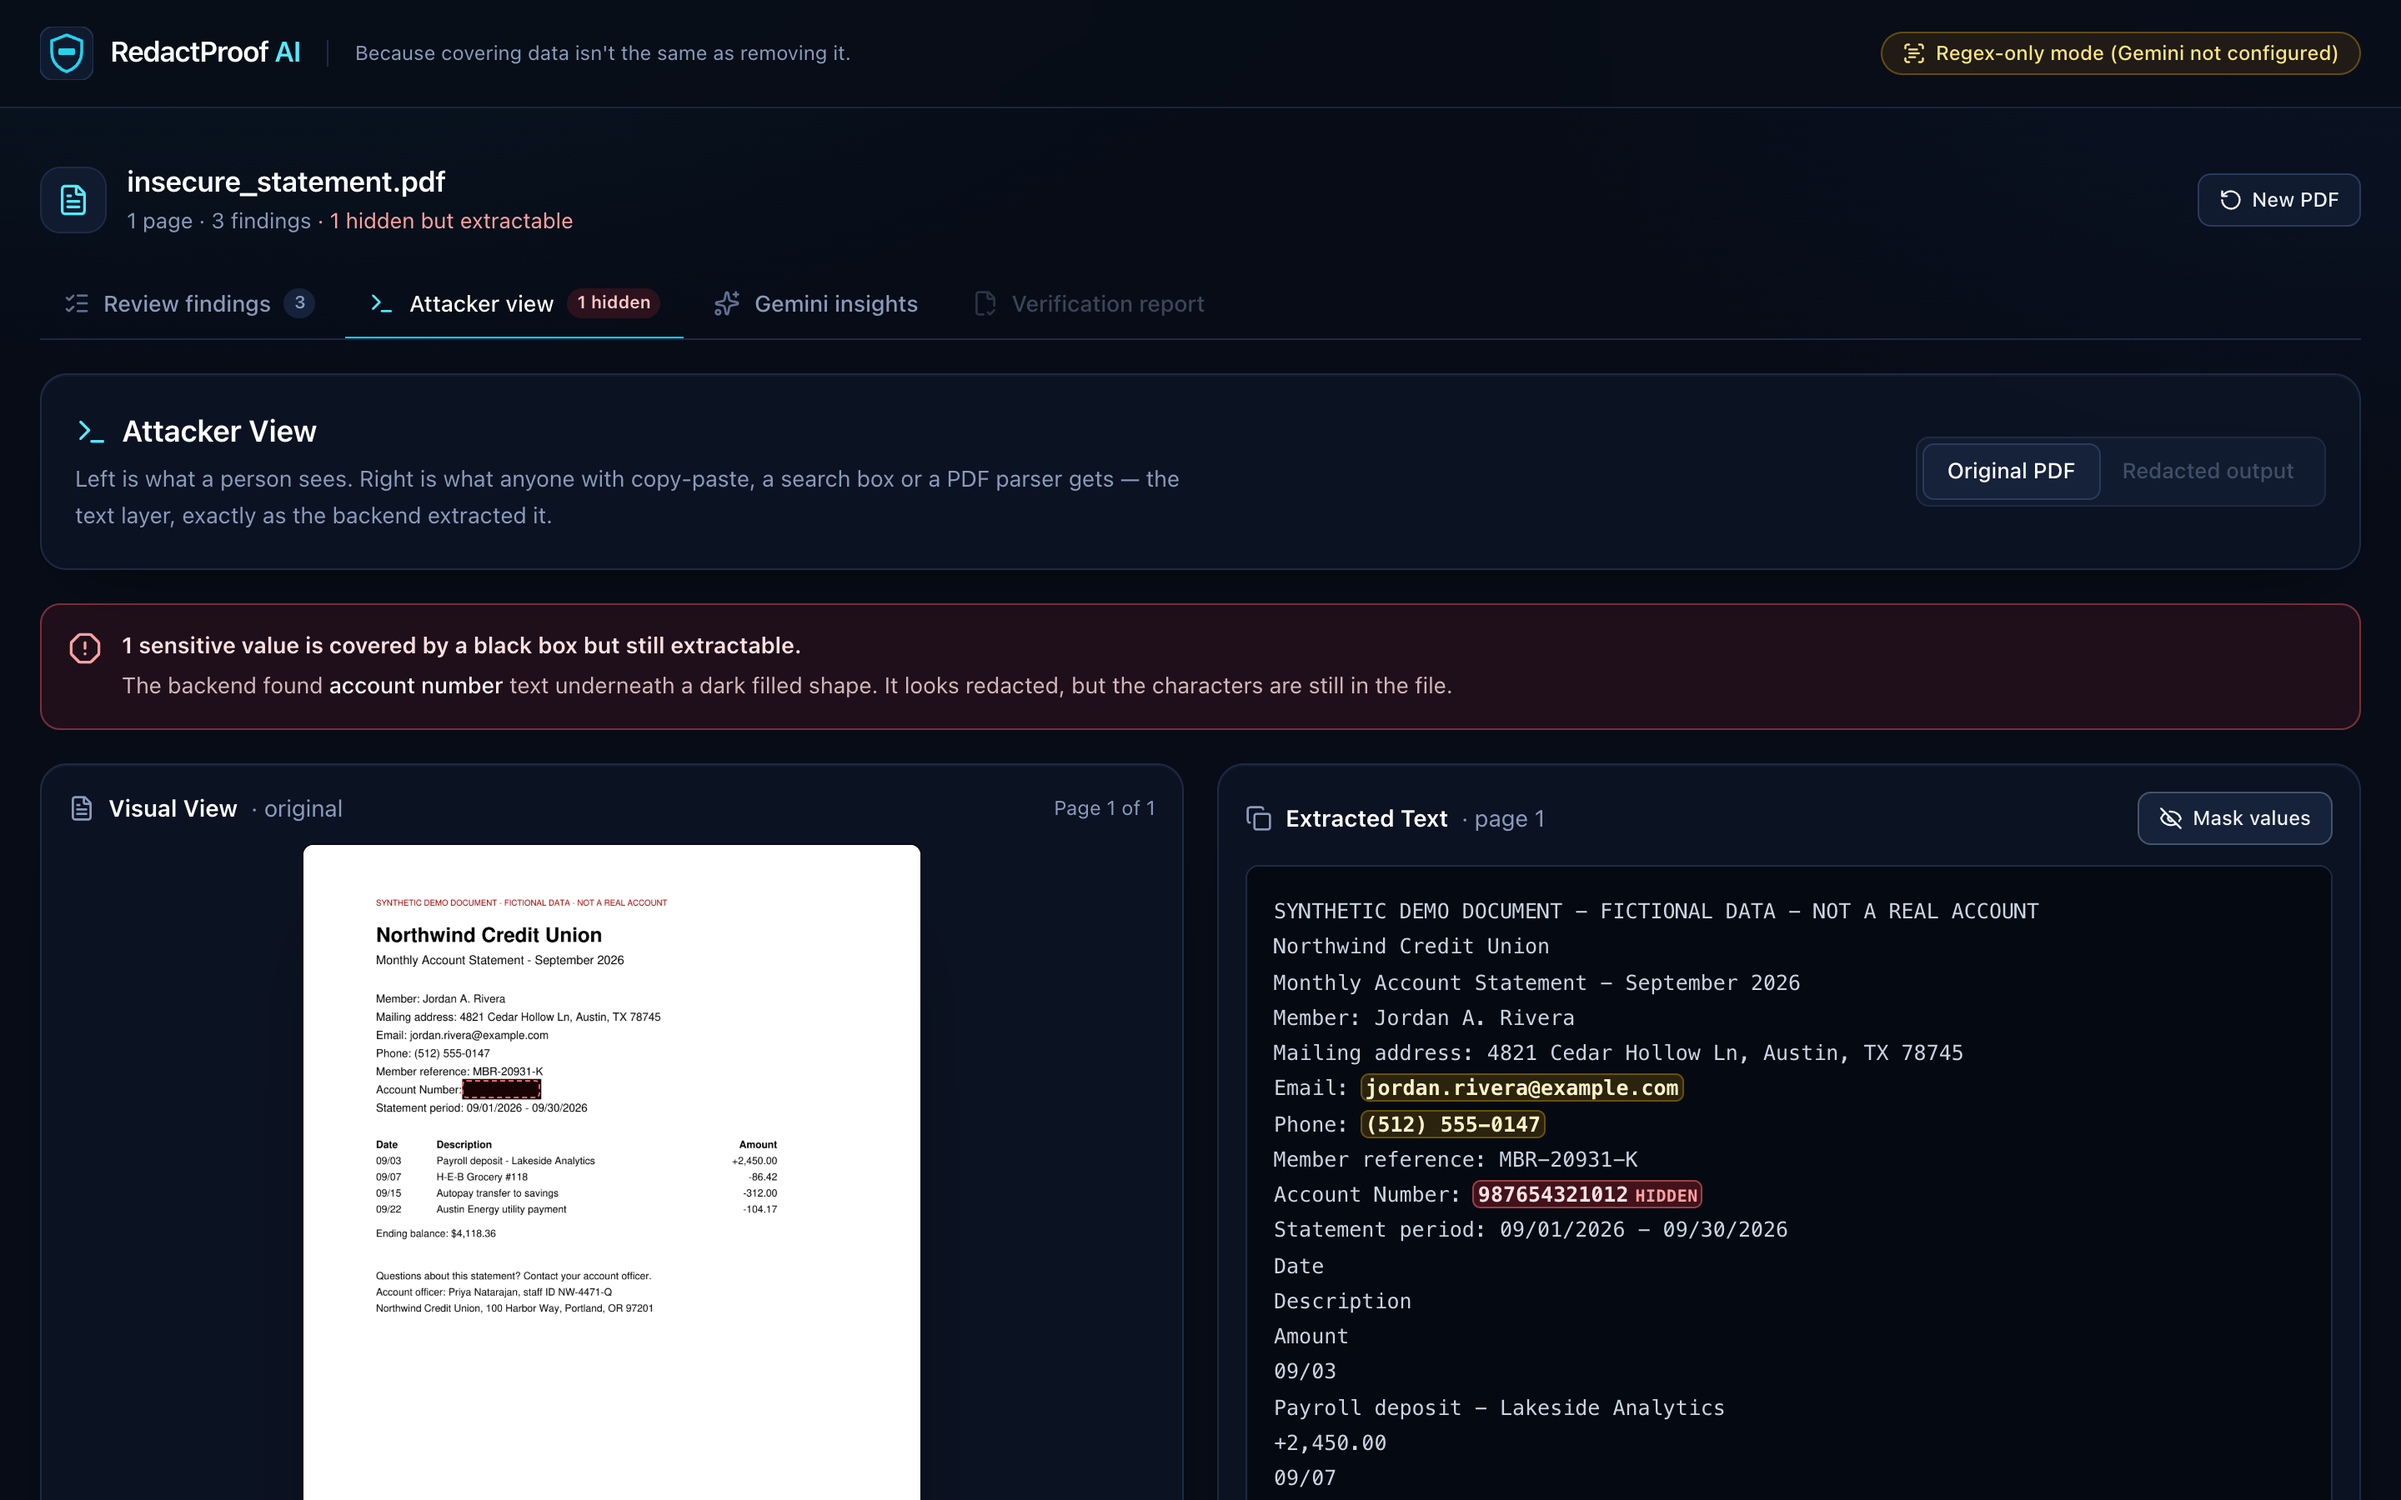
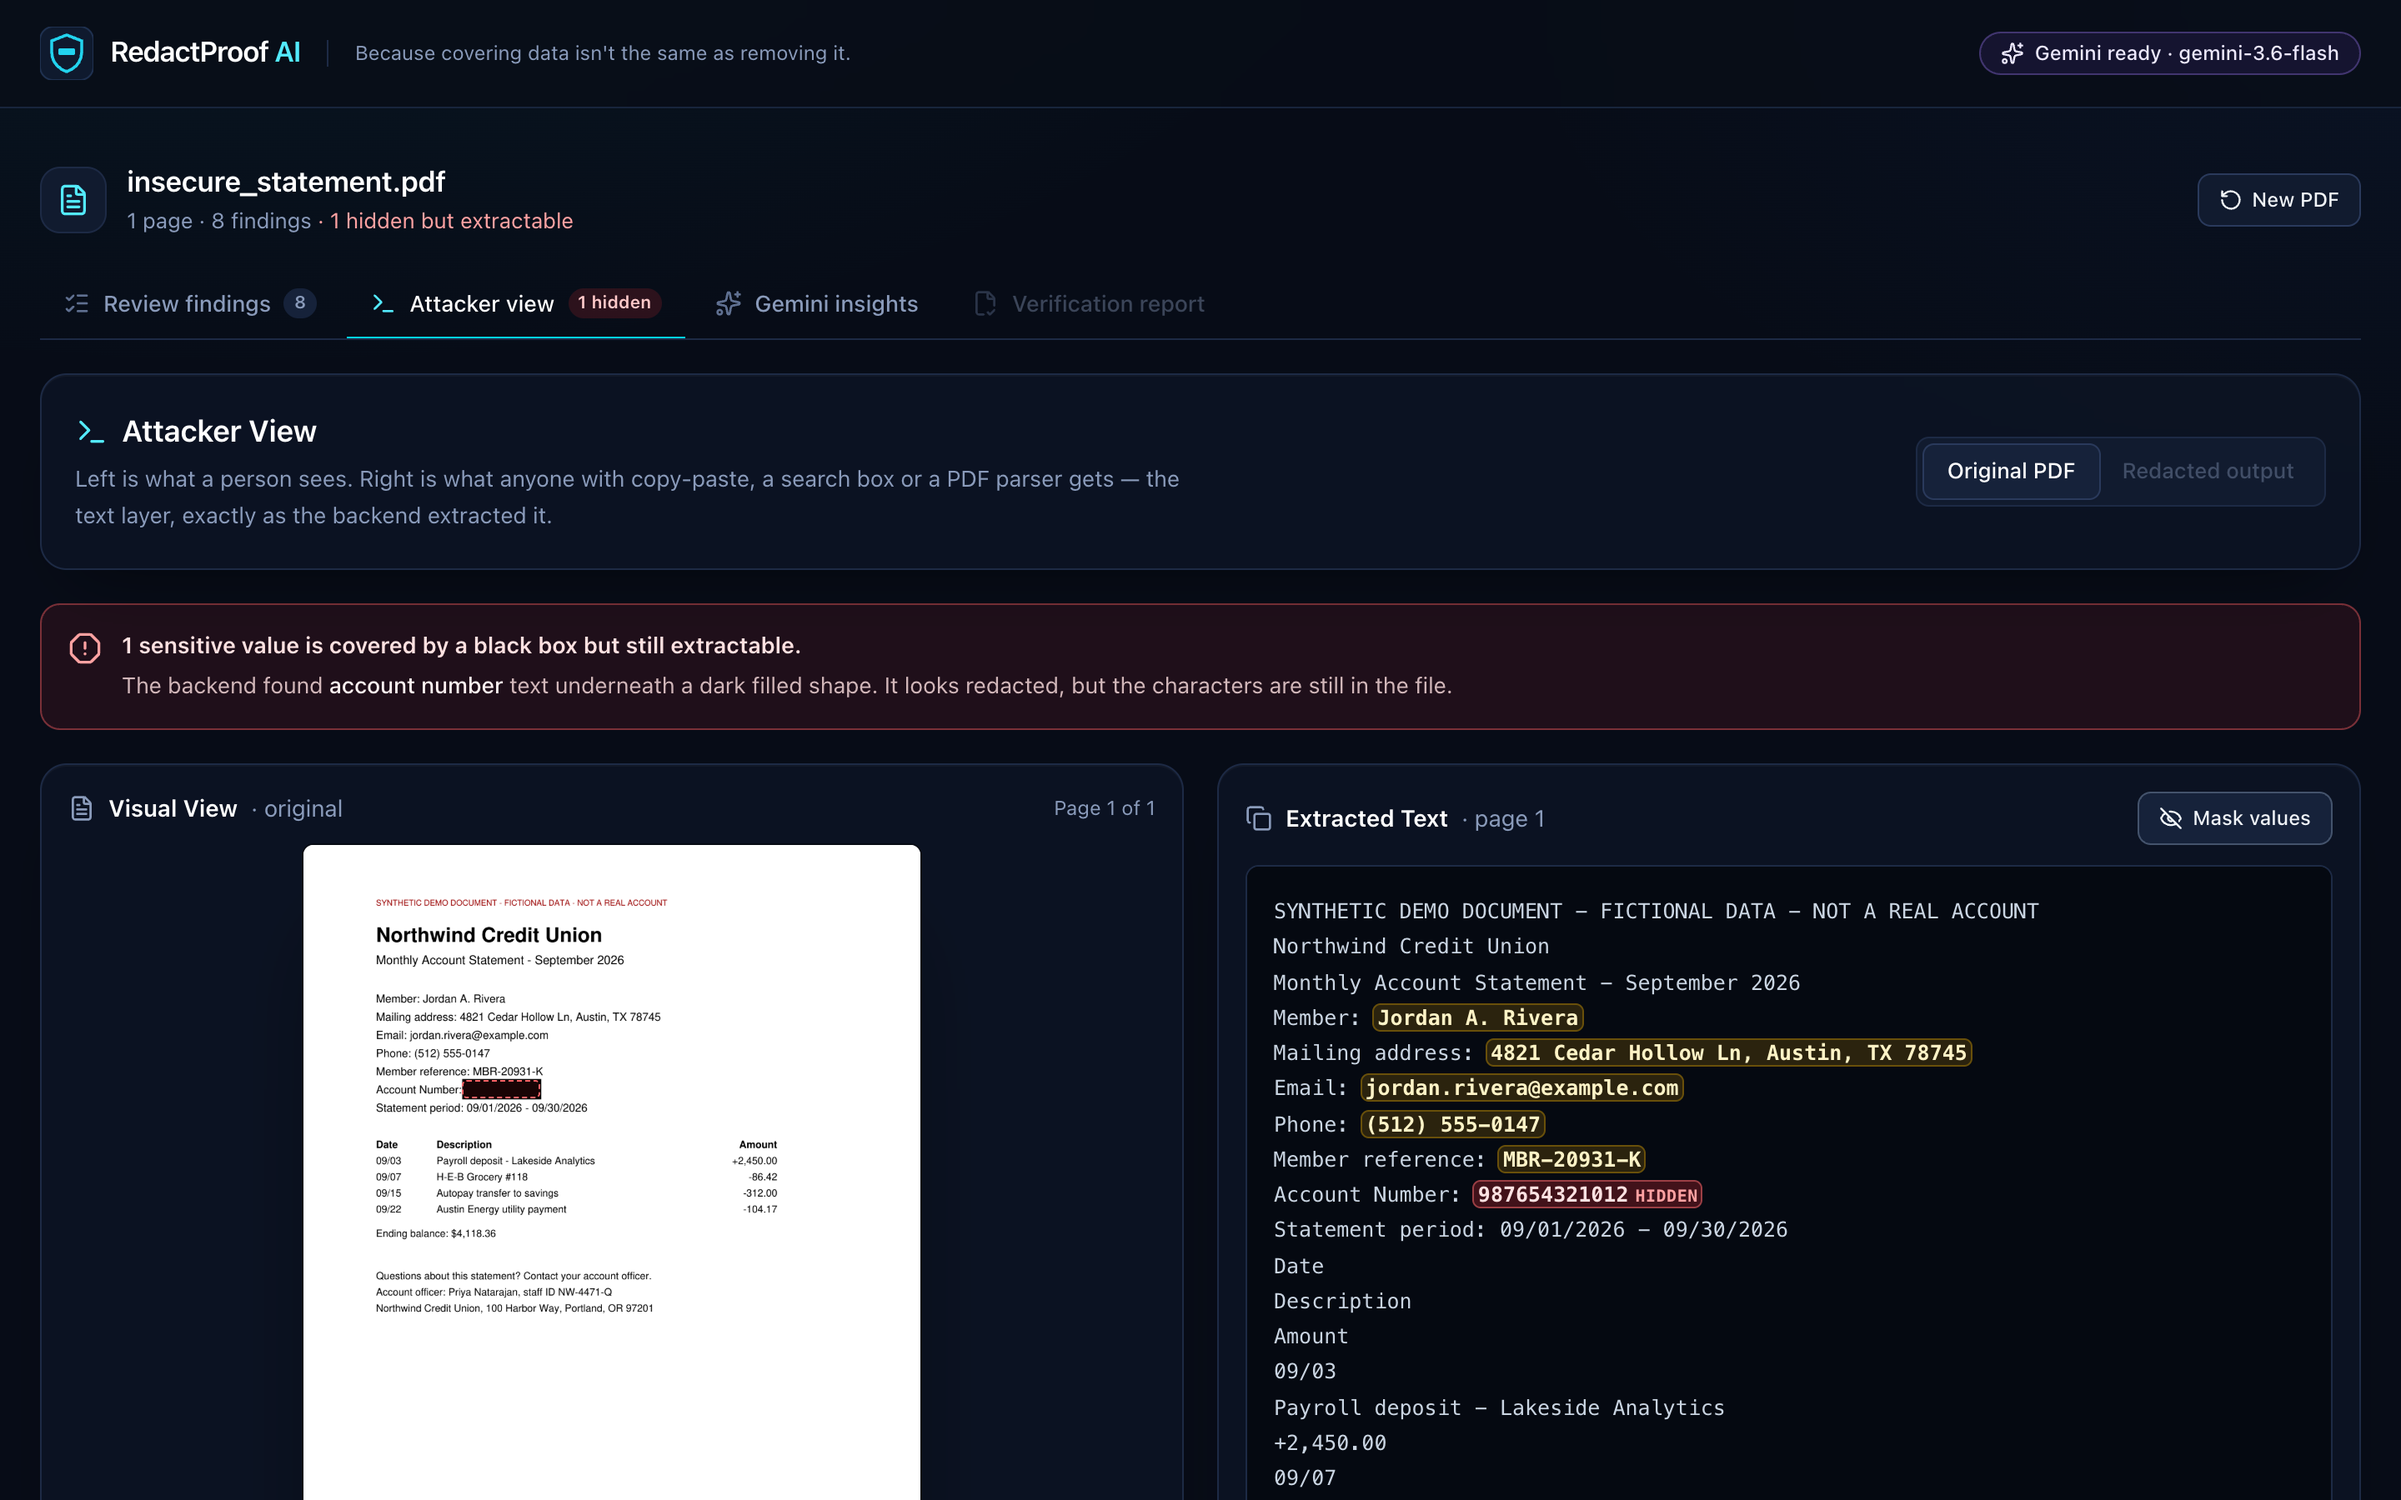
Retake frontend screenshots with Gemini enabled

Changed region(s): [[0.7812, 0.0, 1.0, 0.0622], [0.5625, 0.6533, 0.8438, 0.7156], [0.625, 0.7467, 0.6875, 0.8089]]

diff --git a/frontend/README.md b/frontend/README.md
@@ -57,4 +57,4 @@ src/
 
 ## Screenshots
 
-`screenshots/` holds captures of the real app against the real backend, running in regex-only mode (no Gemini key on the capture machine). Retake them with `GEMINI_API_KEY` set to show Gemini findings for Devpost.
+`screenshots/` holds captures of the real app against the real backend with Gemini enabled, using the synthetic PDFs in `demo/samples/`. No mock data.
